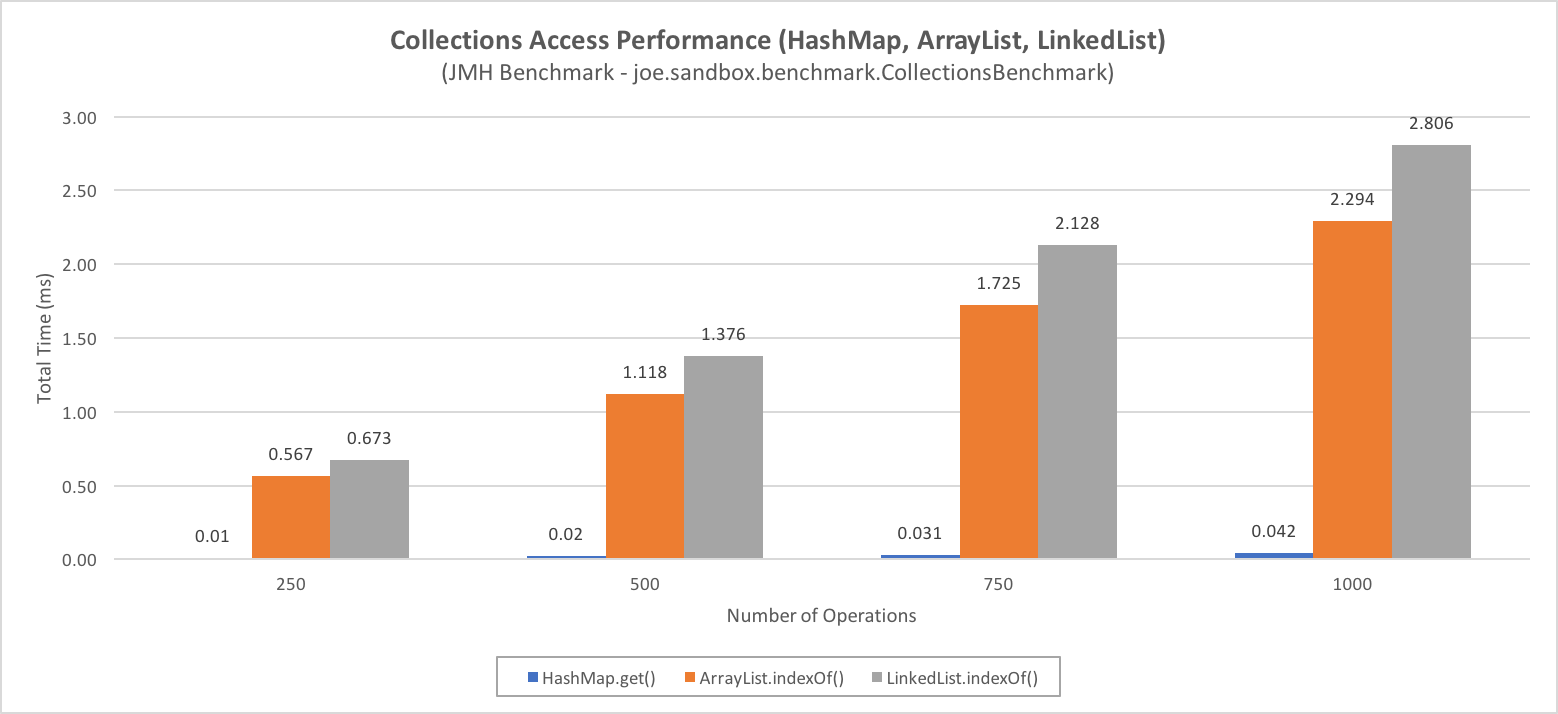
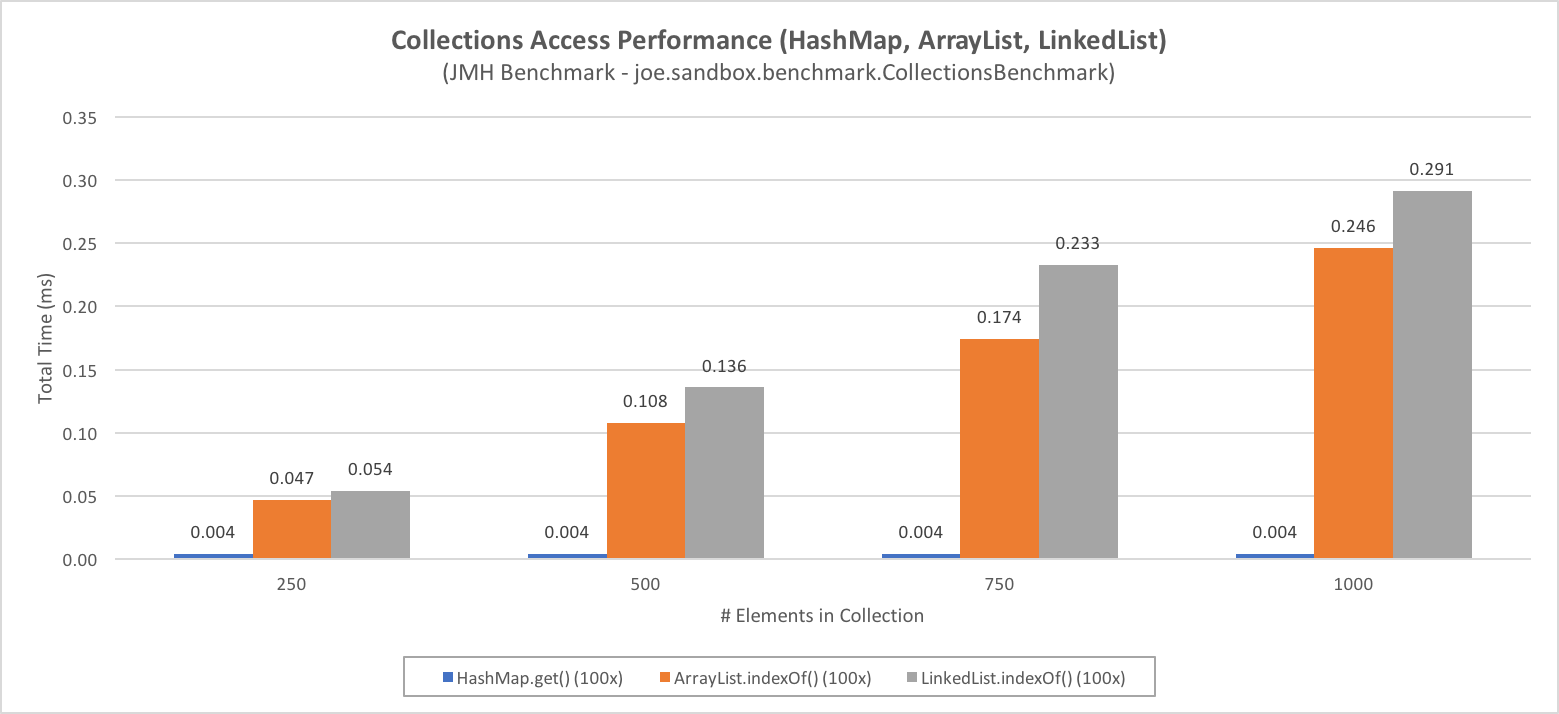
Fixed benchmark logic to vary size of collections.

diff --git a/benchmark/src/main/java/joe/sandbox/benchmark/CollectionsBenchmark.java b/benchmark/src/main/java/joe/sandbox/benchmark/CollectionsBenchmark.java
@@ -65,7 +65,7 @@ public class CollectionsBenchmark {
     	public HashMap<String, String> hashMap = new HashMap<String, String>();
 
     	@Param({"250","500","750","1000"})
-    	public int iterations;
+    	public int listSize;
 
 		
 		@Setup(Level.Trial)
@@ -76,17 +76,17 @@ public class CollectionsBenchmark {
 	    	hashMap.clear();
 
 	    	Random r = new Random();
-			indexArray = r.ints(10000,0,1000).toArray();
+			indexArray = r.ints(listSize,0,listSize).toArray();
 			
-	    	for (int i = 1; i <= 1000; i++) {
+	    	for (int i = 1; i <= listSize; i++) {
 				arrayList.add("Element " + i);				
 			}
 
-	    	for (int i = 1; i <= 1000; i++) {
+	    	for (int i = 1; i <= listSize; i++) {
 				linkedList.add("Element " + i);				
 			}
 
-	    	for (int i = 1; i <= 1000; i++) {
+	    	for (int i = 1; i <= listSize; i++) {
 				hashMap.put(("Element " + i),("Element " + i));				
 			}
 	    	
@@ -106,7 +106,7 @@ public class CollectionsBenchmark {
     @BenchmarkMode(Mode.AverageTime) @OutputTimeUnit(TimeUnit.MILLISECONDS)
     public void arrayListIndexOfBenchmark(MyState state) {
 
-    	for (int i = 0; i < state.iterations; i++) {
+    	for (int i = 0; i < 100; i++) {
     		state.arrayList.indexOf("Element " + state.indexArray[i]);				
 		}
     	
@@ -118,7 +118,7 @@ public class CollectionsBenchmark {
     @Measurement(iterations = 10)
     @BenchmarkMode(Mode.AverageTime) @OutputTimeUnit(TimeUnit.MILLISECONDS)
     public void linkedListIndexOfBenchmark(MyState state) {
-    	for (int i = 0; i < state.iterations; i++) {
+    	for (int i = 0; i < 100; i++) {
 			state.linkedList.indexOf("Element " + state.indexArray[i]);				
 		}
     }
@@ -130,7 +130,7 @@ public class CollectionsBenchmark {
     @BenchmarkMode(Mode.AverageTime) @OutputTimeUnit(TimeUnit.MILLISECONDS)
     public void hashMapGetBenchmark(MyState state) {
 
-    	for (int i = 0; i < state.iterations; i++) {
+    	for (int i = 0; i < 100; i++) {
     		state.hashMap.get("Element " + state.indexArray[i]);				
 		}
     	
